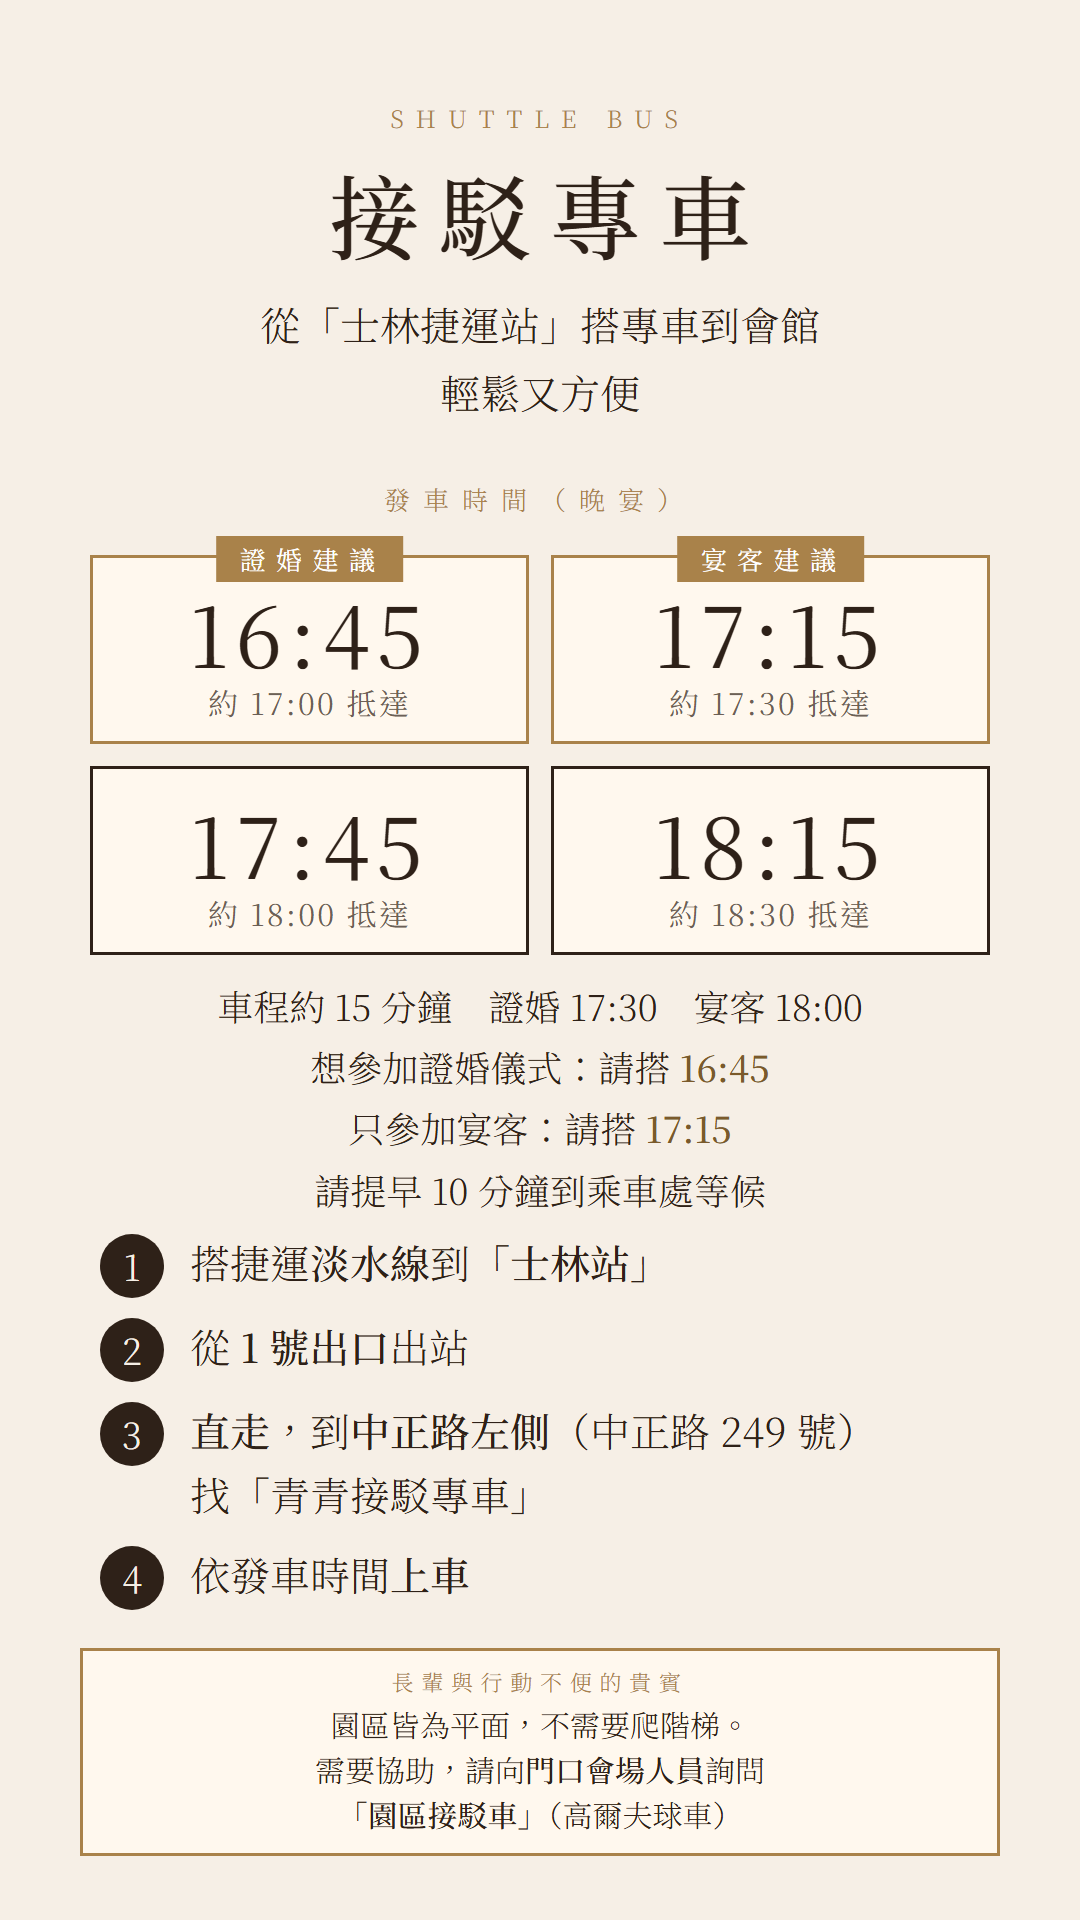
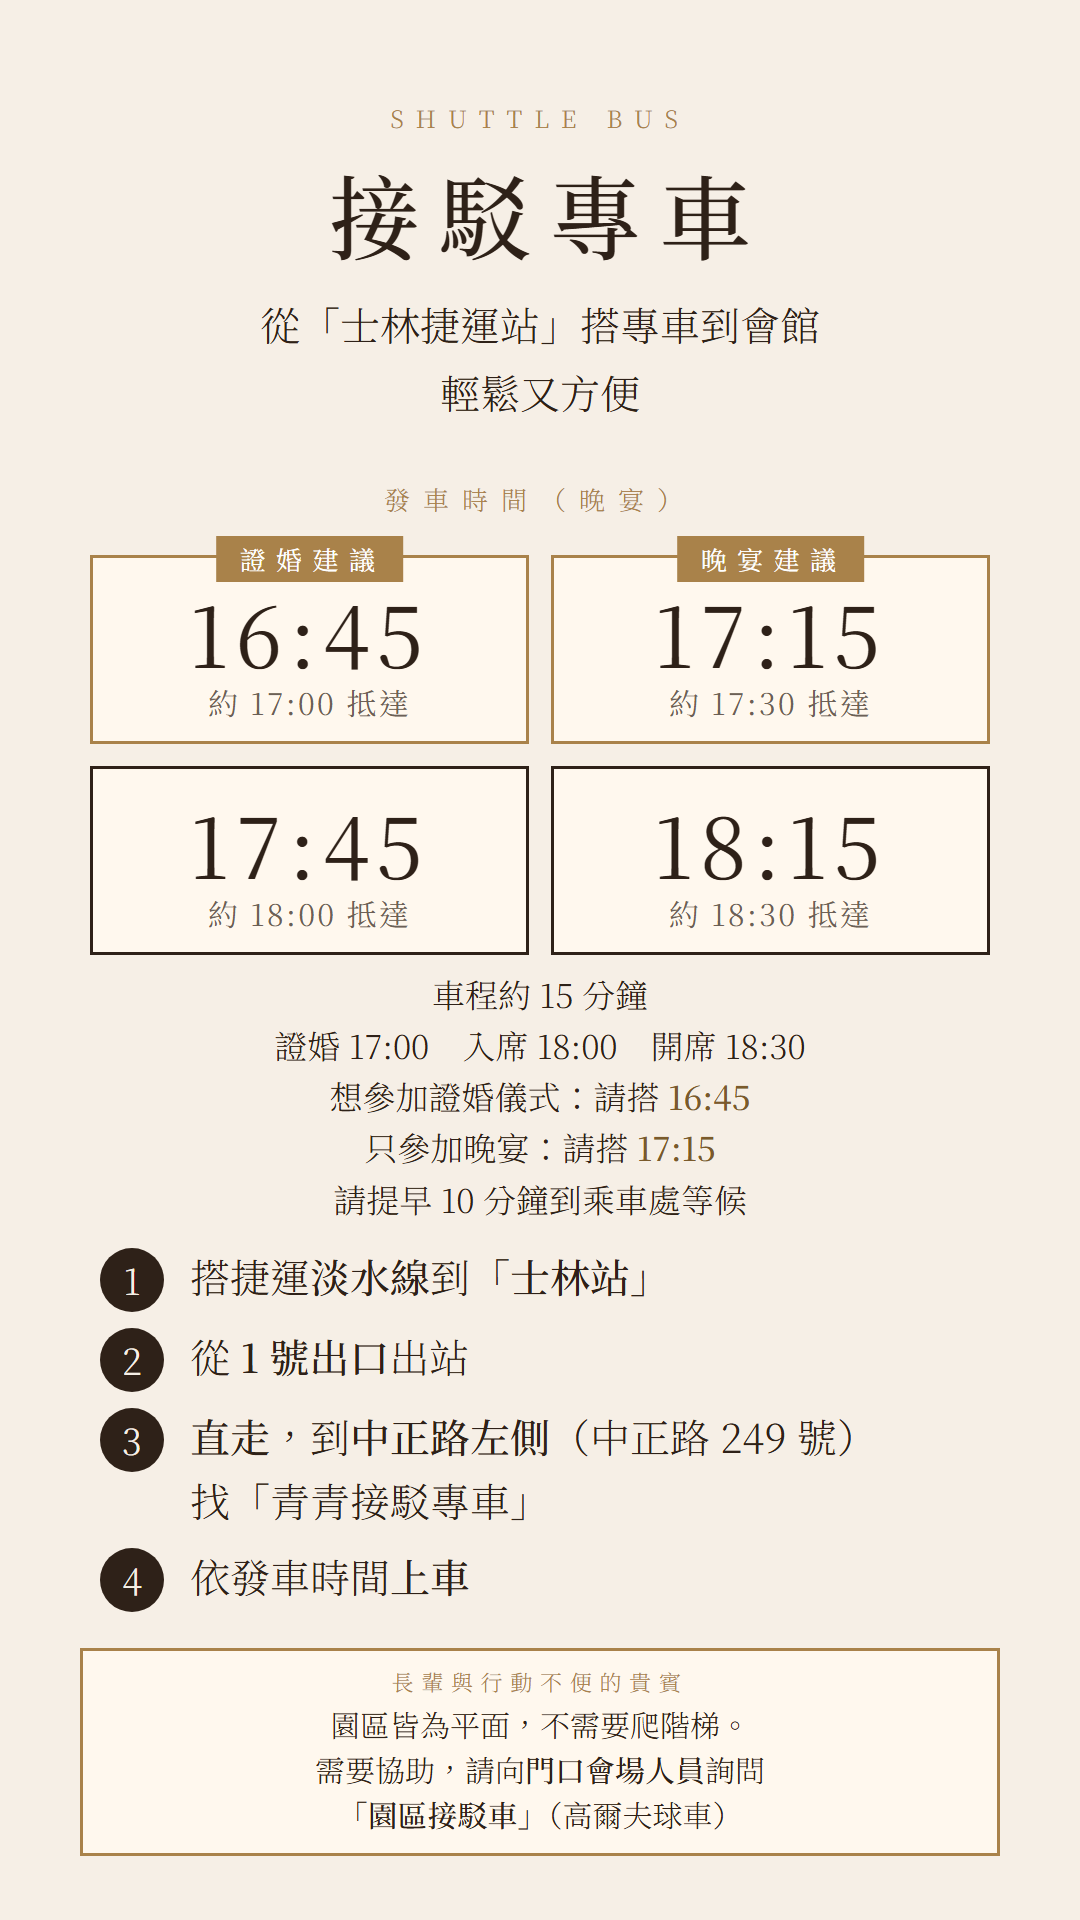
New schedule: 17:00 ceremony, 18:00 seating, 18:30 banquet; update shuttle notes, countdown, calendar and images

diff --git a/index.html b/index.html
@@ -4,12 +4,12 @@
 <meta charset="utf-8">
 <meta name="viewport" content="width=device-width, initial-scale=1, viewport-fit=cover">
 <title>顏均翰 ＆ 周碩慈 婚禮邀請</title>
-<meta name="description" content="2027.01.09 下午五點半證婚、六點宴客，士林青青食尚花園會館．星空之森。誠摯邀請您一同見證。">
+<meta name="description" content="2027.01.09 下午五點證婚、六點入席、六點半開席，士林青青食尚花園會館．星空之森。誠摯邀請您一同見證。">
 <meta property="og:type" content="website">
 <meta property="og:url" content="https://jyh-cst-wedding-invite.vercel.app/">
 <meta property="og:site_name" content="顏均翰 ＆ 周碩慈">
 <meta property="og:title" content="顏均翰 ＆ 周碩慈 婚禮邀請">
-<meta property="og:description" content="2027.01.09 下午五點半證婚、六點宴客，士林青青食尚花園會館．星空之森。誠摯邀請您一同見證。">
+<meta property="og:description" content="2027.01.09 下午五點證婚、六點入席、六點半開席，士林青青食尚花園會館．星空之森。誠摯邀請您一同見證。">
 <meta property="og:image" content="https://jyh-cst-wedding-invite.vercel.app/og.jpg">
 <meta property="og:image:width" content="1200">
 <meta property="og:image:height" content="630">
@@ -187,7 +187,7 @@ footer p{margin-top:10px;font-size:13px;letter-spacing:.3em;color:var(--gold)}
   <h2>The Day</h2>
   <div class="card">
     <div class="row"><div class="k">日期</div><div class="v">2027 年 1 月 9 日（六）</div></div>
-    <div class="row"><div class="k">時間</div><div class="v">證婚儀式　下午 5:30</div><div class="v" style="margin-top:2px">宴　　客　下午 6:00</div></div>
+    <div class="row"><div class="k">時間</div><div class="v">證婚儀式　下午 5:00</div><div class="v" style="margin-top:2px">晚宴入席　下午 6:00</div><div class="v" style="margin-top:2px">晚宴開席　下午 6:30</div></div>
     <div class="row"><div class="k">開放進場</div><div class="v">下午 4:00 起</div><div class="s" style="margin-top:6px;line-height:1.8">園區內若無其他賓客，皆可自由拍照。<br>想提早進場和我們合照的朋友，歡迎提早到。</div></div>
     <div class="row"><div class="k">地點</div><div class="v">青青食尚花園會館</div><div class="hall"><small>婚宴廳</small>｜<b>星空之森</b></div></div>
     <div class="row"><div class="k">地址</div><div class="v" style="font-size:15px;letter-spacing:.05em;text-wrap:balance">台北市士林區至善路二段 266 巷 32 號</div></div>
@@ -198,11 +198,11 @@ footer p{margin-top:10px;font-size:13px;letter-spacing:.3em;color:var(--gold)}
     <a class="btn" id="calBtn" href="wedding.ics">加入行事曆</a>
   
     <p class="calhelp" id="calHelp">行事曆按了沒反應？改用
-      <a href="wedding.ics">iPhone 日曆</a>｜<a target="_blank" rel="noopener" id="calGoogle" href="https://calendar.google.com/calendar/render?action=TEMPLATE&text=%E9%A1%8F%E5%9D%87%E7%BF%B0%20%EF%BC%86%20%E5%91%A8%E7%A2%A9%E6%85%88%20%E5%A9%9A%E7%A6%AE%EF%BC%8817%3A30%20%E8%AD%89%E5%A9%9A%E5%84%80%E5%BC%8F%EF%BC%8F18%3A00%20%E5%AE%B4%E5%AE%A2%EF%BC%89&dates=20270109T093000Z%2F20270109T133000Z&details=16%3A00%20%E8%B5%B7%E9%96%8B%E6%94%BE%E9%80%B2%E5%A0%B4%EF%BC%88%E5%9C%92%E5%8D%80%E7%84%A1%E5%85%B6%E4%BB%96%E8%B3%93%E5%AE%A2%E6%99%82%E7%9A%86%E5%8F%AF%E6%8B%8D%E7%85%A7%EF%BC%89%E3%80%8217%3A30%20%E8%AD%89%E5%A9%9A%E5%84%80%E5%BC%8F%EF%BC%8C18%3A00%20%E5%AE%B4%E5%AE%A2%E3%80%82%E5%B7%B7%E5%8F%A3%E5%85%A9%E5%81%B4%E6%98%AF%207-11%20%E8%88%87%E5%85%A8%E5%AE%B6%EF%BC%8C%E8%AB%8B%E7%94%B1%E6%AD%A4%E8%BD%89%E9%80%B2%E5%B0%8F%E5%B7%B7%EF%BC%88%E8%87%B3%E5%96%84%E8%B7%AF%20266%20%E5%B7%B7%EF%BC%89%EF%BC%9B%E5%89%8D%E6%96%B9%E7%9A%84%E6%A9%8B%E4%B8%80%E6%AC%A1%E5%8F%AA%E8%83%BD%E9%81%8E%E4%B8%80%E5%8F%B0%E8%BB%8A%EF%BC%8C%E5%BE%9E%207-11%E3%80%81%E5%85%A8%E5%AE%B6%E8%B5%B7%E8%AB%8B%E4%BE%9D%E7%8F%BE%E5%A0%B4%E4%BA%BA%E5%93%A1%E6%8C%87%E6%8F%AE%E3%80%82&location=%E9%9D%92%E9%9D%92%E9%A3%9F%E5%B0%9A%E8%8A%B1%E5%9C%92%E6%9C%83%E9%A4%A8%20%E5%A9%9A%E5%AE%B4%E5%BB%B3%E3%80%8C%E6%98%9F%E7%A9%BA%E4%B9%8B%E6%A3%AE%E3%80%8D%EF%BC%88%E5%8F%B0%E5%8C%97%E5%B8%82%E5%A3%AB%E6%9E%97%E5%8D%80%E8%87%B3%E5%96%84%E8%B7%AF%E4%BA%8C%E6%AE%B5266%E5%B7%B732%E8%99%9F%EF%BC%89&ctz=Asia%2FTaipei">Google 日曆</a><br>
+      <a href="wedding.ics">iPhone 日曆</a>｜<a target="_blank" rel="noopener" id="calGoogle" href="https://calendar.google.com/calendar/render?action=TEMPLATE&text=%E9%A1%8F%E5%9D%87%E7%BF%B0%20%EF%BC%86%20%E5%91%A8%E7%A2%A9%E6%85%88%20%E5%A9%9A%E7%A6%AE%EF%BC%8817%3A00%20%E8%AD%89%E5%A9%9A%E5%84%80%E5%BC%8F%EF%BC%8F18%3A00%20%E5%85%A5%E5%B8%AD%EF%BC%8F18%3A30%20%E9%96%8B%E5%B8%AD%EF%BC%89&dates=20270109T090000Z%2F20270109T133000Z&details=16%3A00%20%E8%B5%B7%E9%96%8B%E6%94%BE%E9%80%B2%E5%A0%B4%EF%BC%88%E5%9C%92%E5%8D%80%E7%84%A1%E5%85%B6%E4%BB%96%E8%B3%93%E5%AE%A2%E6%99%82%E7%9A%86%E5%8F%AF%E6%8B%8D%E7%85%A7%EF%BC%89%E3%80%8217%3A00%20%E8%AD%89%E5%A9%9A%E5%84%80%E5%BC%8F%EF%BC%8C18%3A00%20%E6%99%9A%E5%AE%B4%E5%85%A5%E5%B8%AD%EF%BC%8C18%3A30%20%E6%99%9A%E5%AE%B4%E9%96%8B%E5%B8%AD%E3%80%82%E5%B7%B7%E5%8F%A3%E5%85%A9%E5%81%B4%E6%98%AF%207-11%20%E8%88%87%E5%85%A8%E5%AE%B6%EF%BC%8C%E8%AB%8B%E7%94%B1%E6%AD%A4%E8%BD%89%E9%80%B2%E5%B0%8F%E5%B7%B7%EF%BC%88%E8%87%B3%E5%96%84%E8%B7%AF%20266%20%E5%B7%B7%EF%BC%89%EF%BC%9B%E5%89%8D%E6%96%B9%E7%9A%84%E6%A9%8B%E4%B8%80%E6%AC%A1%E5%8F%AA%E8%83%BD%E9%81%8E%E4%B8%80%E5%8F%B0%E8%BB%8A%EF%BC%8C%E5%BE%9E%207-11%E3%80%81%E5%85%A8%E5%AE%B6%E8%B5%B7%E8%AB%8B%E4%BE%9D%E7%8F%BE%E5%A0%B4%E4%BA%BA%E5%93%A1%E6%8C%87%E6%8F%AE%E3%80%82&location=%E9%9D%92%E9%9D%92%E9%A3%9F%E5%B0%9A%E8%8A%B1%E5%9C%92%E6%9C%83%E9%A4%A8%20%E5%A9%9A%E5%AE%B4%E5%BB%B3%E3%80%8C%E6%98%9F%E7%A9%BA%E4%B9%8B%E6%A3%AE%E3%80%8D%EF%BC%88%E5%8F%B0%E5%8C%97%E5%B8%82%E5%A3%AB%E6%9E%97%E5%8D%80%E8%87%B3%E5%96%84%E8%B7%AF%E4%BA%8C%E6%AE%B5266%E5%B7%B732%E8%99%9F%EF%BC%89&ctz=Asia%2FTaipei">Google 日曆</a><br>
       <span id="calLine" style="display:none">您正在 LINE 裡開啟，若行事曆仍沒反應，請改用 <b>Safari</b> 或 <b>Chrome</b> 開啟這個網頁。</span></p>
     <div class="calpick" id="calPick" hidden>
       <div class="cp-t">請選擇您使用的日曆</div>
-      <a class="btn fill" target="_blank" rel="noopener" href="https://calendar.google.com/calendar/render?action=TEMPLATE&text=%E9%A1%8F%E5%9D%87%E7%BF%B0%20%EF%BC%86%20%E5%91%A8%E7%A2%A9%E6%85%88%20%E5%A9%9A%E7%A6%AE%EF%BC%8817%3A30%20%E8%AD%89%E5%A9%9A%E5%84%80%E5%BC%8F%EF%BC%8F18%3A00%20%E5%AE%B4%E5%AE%A2%EF%BC%89&dates=20270109T093000Z%2F20270109T133000Z&details=16%3A00%20%E8%B5%B7%E9%96%8B%E6%94%BE%E9%80%B2%E5%A0%B4%EF%BC%88%E5%9C%92%E5%8D%80%E7%84%A1%E5%85%B6%E4%BB%96%E8%B3%93%E5%AE%A2%E6%99%82%E7%9A%86%E5%8F%AF%E6%8B%8D%E7%85%A7%EF%BC%89%E3%80%8217%3A30%20%E8%AD%89%E5%A9%9A%E5%84%80%E5%BC%8F%EF%BC%8C18%3A00%20%E5%AE%B4%E5%AE%A2%E3%80%82%E5%B7%B7%E5%8F%A3%E5%85%A9%E5%81%B4%E6%98%AF%207-11%20%E8%88%87%E5%85%A8%E5%AE%B6%EF%BC%8C%E8%AB%8B%E7%94%B1%E6%AD%A4%E8%BD%89%E9%80%B2%E5%B0%8F%E5%B7%B7%EF%BC%88%E8%87%B3%E5%96%84%E8%B7%AF%20266%20%E5%B7%B7%EF%BC%89%EF%BC%9B%E5%89%8D%E6%96%B9%E7%9A%84%E6%A9%8B%E4%B8%80%E6%AC%A1%E5%8F%AA%E8%83%BD%E9%81%8E%E4%B8%80%E5%8F%B0%E8%BB%8A%EF%BC%8C%E5%BE%9E%207-11%E3%80%81%E5%85%A8%E5%AE%B6%E8%B5%B7%E8%AB%8B%E4%BE%9D%E7%8F%BE%E5%A0%B4%E4%BA%BA%E5%93%A1%E6%8C%87%E6%8F%AE%E3%80%82&location=%E9%9D%92%E9%9D%92%E9%A3%9F%E5%B0%9A%E8%8A%B1%E5%9C%92%E6%9C%83%E9%A4%A8%20%E5%A9%9A%E5%AE%B4%E5%BB%B3%E3%80%8C%E6%98%9F%E7%A9%BA%E4%B9%8B%E6%A3%AE%E3%80%8D%EF%BC%88%E5%8F%B0%E5%8C%97%E5%B8%82%E5%A3%AB%E6%9E%97%E5%8D%80%E8%87%B3%E5%96%84%E8%B7%AF%E4%BA%8C%E6%AE%B5266%E5%B7%B732%E8%99%9F%EF%BC%89&ctz=Asia%2FTaipei">Google 日曆<small>使用 Gmail／Google 帳號</small></a>
+      <a class="btn fill" target="_blank" rel="noopener" href="https://calendar.google.com/calendar/render?action=TEMPLATE&text=%E9%A1%8F%E5%9D%87%E7%BF%B0%20%EF%BC%86%20%E5%91%A8%E7%A2%A9%E6%85%88%20%E5%A9%9A%E7%A6%AE%EF%BC%8817%3A00%20%E8%AD%89%E5%A9%9A%E5%84%80%E5%BC%8F%EF%BC%8F18%3A00%20%E5%85%A5%E5%B8%AD%EF%BC%8F18%3A30%20%E9%96%8B%E5%B8%AD%EF%BC%89&dates=20270109T090000Z%2F20270109T133000Z&details=16%3A00%20%E8%B5%B7%E9%96%8B%E6%94%BE%E9%80%B2%E5%A0%B4%EF%BC%88%E5%9C%92%E5%8D%80%E7%84%A1%E5%85%B6%E4%BB%96%E8%B3%93%E5%AE%A2%E6%99%82%E7%9A%86%E5%8F%AF%E6%8B%8D%E7%85%A7%EF%BC%89%E3%80%8217%3A00%20%E8%AD%89%E5%A9%9A%E5%84%80%E5%BC%8F%EF%BC%8C18%3A00%20%E6%99%9A%E5%AE%B4%E5%85%A5%E5%B8%AD%EF%BC%8C18%3A30%20%E6%99%9A%E5%AE%B4%E9%96%8B%E5%B8%AD%E3%80%82%E5%B7%B7%E5%8F%A3%E5%85%A9%E5%81%B4%E6%98%AF%207-11%20%E8%88%87%E5%85%A8%E5%AE%B6%EF%BC%8C%E8%AB%8B%E7%94%B1%E6%AD%A4%E8%BD%89%E9%80%B2%E5%B0%8F%E5%B7%B7%EF%BC%88%E8%87%B3%E5%96%84%E8%B7%AF%20266%20%E5%B7%B7%EF%BC%89%EF%BC%9B%E5%89%8D%E6%96%B9%E7%9A%84%E6%A9%8B%E4%B8%80%E6%AC%A1%E5%8F%AA%E8%83%BD%E9%81%8E%E4%B8%80%E5%8F%B0%E8%BB%8A%EF%BC%8C%E5%BE%9E%207-11%E3%80%81%E5%85%A8%E5%AE%B6%E8%B5%B7%E8%AB%8B%E4%BE%9D%E7%8F%BE%E5%A0%B4%E4%BA%BA%E5%93%A1%E6%8C%87%E6%8F%AE%E3%80%82&location=%E9%9D%92%E9%9D%92%E9%A3%9F%E5%B0%9A%E8%8A%B1%E5%9C%92%E6%9C%83%E9%A4%A8%20%E5%A9%9A%E5%AE%B4%E5%BB%B3%E3%80%8C%E6%98%9F%E7%A9%BA%E4%B9%8B%E6%A3%AE%E3%80%8D%EF%BC%88%E5%8F%B0%E5%8C%97%E5%B8%82%E5%A3%AB%E6%9E%97%E5%8D%80%E8%87%B3%E5%96%84%E8%B7%AF%E4%BA%8C%E6%AE%B5266%E5%B7%B732%E8%99%9F%EF%BC%89&ctz=Asia%2FTaipei">Google 日曆<small>使用 Gmail／Google 帳號</small></a>
       <a class="btn" href="wedding.ics">Outlook／Apple 日曆<small>下載行事曆檔後開啟</small></a>
     </div>
   </div>
@@ -224,14 +224,14 @@ footer p{margin-top:10px;font-size:13px;letter-spacing:.3em;color:var(--gold)}
     <div class="sh-label">發車時間（晚宴）</div>
     <div class="sh-times">
       <div class="rec"><i>證婚建議</i>16:45<em>約 17:00 抵達</em></div>
-      <div class="rec"><i>宴客建議</i>17:15<em>約 17:30 抵達</em></div>
+      <div class="rec"><i>晚宴建議</i>17:15<em>約 17:30 抵達</em></div>
       <div>17:45<em>約 18:00 抵達</em></div>
       <div>18:15<em>約 18:30 抵達</em></div>
     </div>
-    <p class="sh-note">車程約 15 分鐘。<br>證婚儀式 <b>17:30</b>，宴客 <b>18:00</b>。<br>
-      想參加證婚儀式，請搭 <b>16:45</b>。<br>只參加宴客，請搭 <b>17:15</b>。<br>
+    <p class="sh-note">車程約 15 分鐘。<br>證婚儀式 <b>17:00</b>，晚宴入席 <b>18:00</b>，開席 <b>18:30</b>。<br>
+      想參加證婚儀式，請搭 <b>16:45</b>。<br>只參加晚宴，請搭 <b>17:15</b>。<br>
       請提早 10 分鐘到乘車處等候。<br>
-      <span class="sh-small">17:15 班次抵達時證婚儀式剛好開始；17:45 班次剛好 18:00 抵達，18:15 班次抵達時宴客已開始。</span></p>
+      <span class="sh-small">16:45 班次抵達時證婚儀式剛好開始，請準時到乘車處；17:45 班次剛好 18:00 抵達入席；18:15 班次抵達時已是 18:30 開席。</span></p>
 
     <div class="sh-label">怎麼搭</div>
     <ol class="sh-steps">
@@ -346,7 +346,7 @@ footer p{margin-top:10px;font-size:13px;letter-spacing:.3em;color:var(--gold)}
 
 // Countdown to the ceremony (Asia/Taipei, UTC+8)
 (function(){
-  var target=new Date('2027-01-09T17:30:00+08:00').getTime();
+  var target=new Date('2027-01-09T17:00:00+08:00').getTime();
   var el={d:document.getElementById('cd'),h:document.getElementById('ch'),m:document.getElementById('cm'),s:document.getElementById('cs')};
   function pad(n){return String(n).padStart(2,'0')}
   function tick(){

diff --git a/pass.html b/pass.html
@@ -88,7 +88,7 @@ body{background:#2E2118;color:var(--ink);font-family:var(--serif);font-weight:40
       <div class="rule"></div>
       <div class="when">
         <div><div class="lab">日期</div><div class="big">2027.01.09<br>（六）</div></div>
-        <div><div class="lab">時間</div><div class="big">證婚 17:30<br>宴客 18:00</div></div>
+        <div><div class="lab">時間</div><div class="big">證婚 17:00<br>入席 18:00<br>開席 18:30</div></div>
       </div>
     </div>
 
